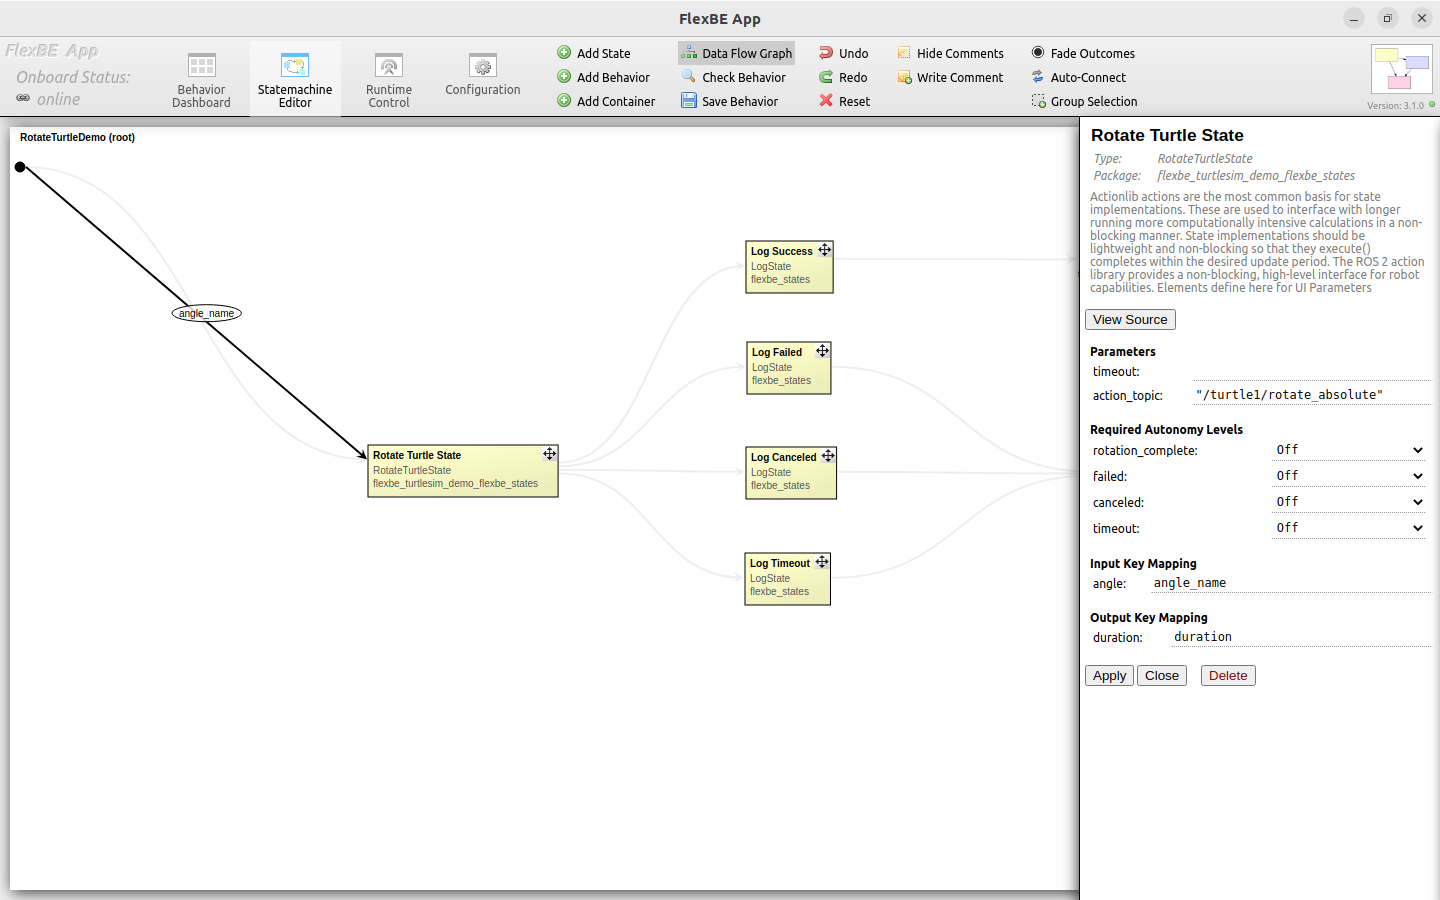
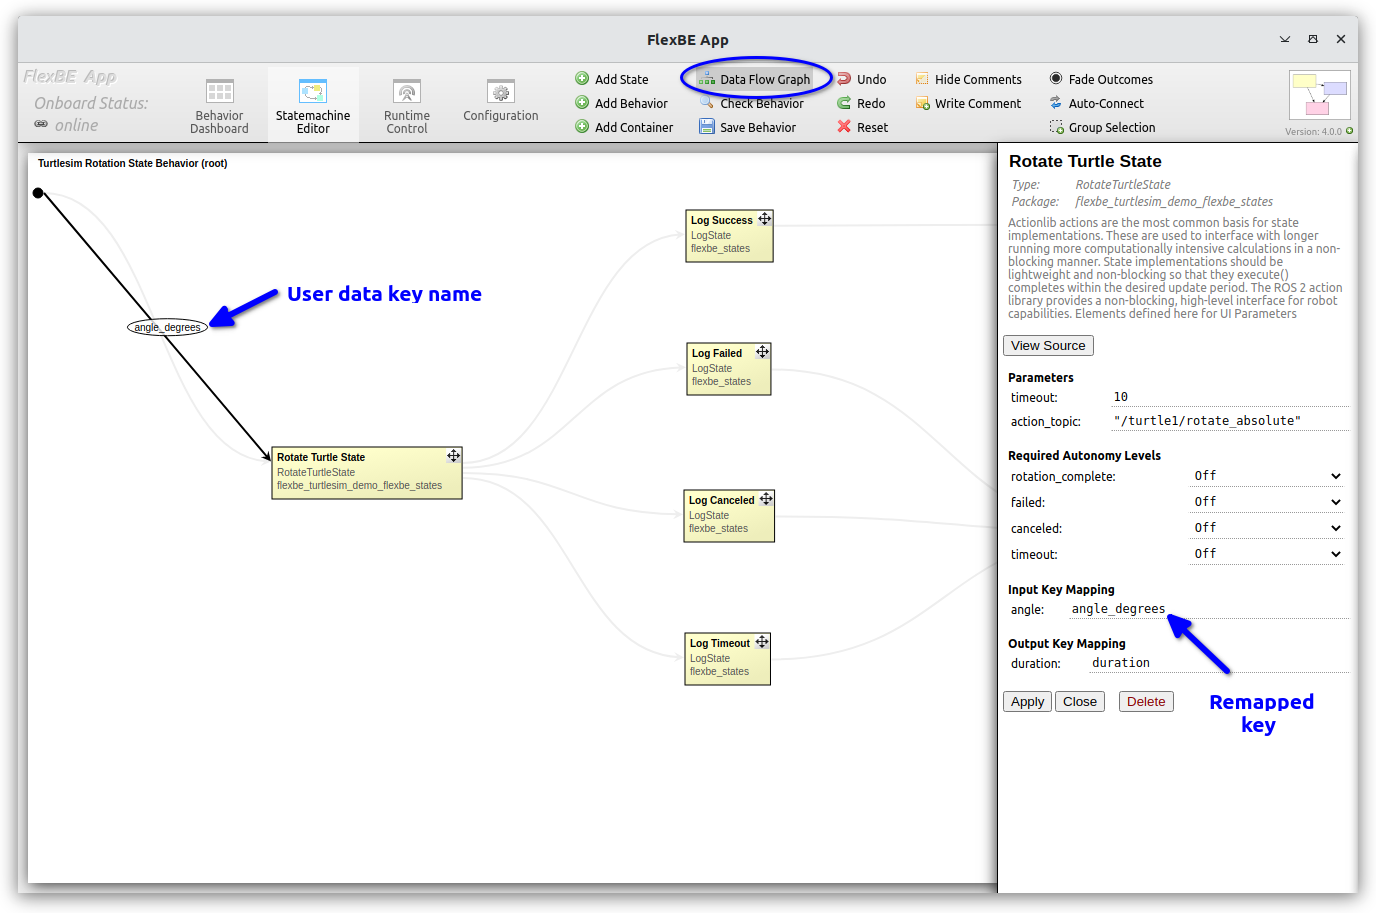
working on rotate draft with images

diff --git a/docs/rotate_behavior.md b/docs/rotate_behavior.md
@@ -1,22 +1,29 @@
 
 # RotateTurtleState and Userdata
 
-A key part of FlexBE that extends the concept beyond pure state machines is `userdata` that can be passed from one state to another.
+Two key parts of FlexBE that extends the concept beyond pure state machines are:
+* 1) composition of behaviors into HFSM
+* 2) `userdata` that can be passed from one state to another.
 
-For example, the [Rotate Turtle State](flexbe_turtlesim_demo_flexbe_states/flexbe_turtlesim_demo_flexbe_states/rotate_turtle_state.py) uses
+For example, the [`RotateTurtleState`](flexbe_turtlesim_demo_flexbe_states/flexbe_turtlesim_demo_flexbe_states/rotate_turtle_state.py) uses
 `userdata` to define the desired angle.
 
-We will be our discussion with a simpler example, and then return to the specifics of the "Rotate" transition in `FlexBE Turtlesim Demonstration`.
+We will begin our discussion with a simpler example behavior and then return to the specifics of the "Rotate" transition in `FlexBE Turtlesim Demonstration`.
 
 ----
 
-### `Rotate Turtlesim Demonstration (TODO)`
+### `Turtlesim Rotation State Behavior`
 
-Separate from the `FlexBE Turtlesim Demonstration (TODO)` behavior, we have provided a simpler `Rotate Turtlesim Demonstration (TODO)` behavior.
-We will start by describing that first.
+Separate from the `Turtlesim Input State Behavior` sub-behavior used by the `FlexBE Turtlesim Demo`, 
+we have provided a simpler `Turtlesim Rotation State Behavior` behavior.
 
-Each state can accept data according to specified `Input Keys`.
-These key names can be remapped at the state level.
+We will start by describing that first, you may load this behavior and execute if you wish.
+
+Each FlexBE state can accept data according to specified `Input Keys`.
+These key names can be remapped to a different name at the state level.
+
+For example, the `RotateTurtleState` implementation specifies an input key called `angle` and 
+an output key `duration that is passed to downstream states.
 
 ```Python
 class RotateTurtleState(EventState):
@@ -44,34 +51,37 @@ class RotateTurtleState(EventState):
                          input_keys=['angle'],
                          output_keys=['duration'])
 
+        self._timeout = Duration(seconds=timeout)
+        self._timeout_sec = timeout
+        self._topic = action_topic
+
 ```
-The `RotateTurtleState` implementation specifies an input key called `angle` and an output key `duration`.  Internally, the state implementation will use `userdata.angle` to access the stored data
+
+Internally, the state implementation will use `userdata.angle` to access the stored data
 using the FlexBE core [`userdata.py` class](https://github.com/flexbe/flexbe_behavior_engine/flexbe_core/flexbe_core/userdata.py) that
 extends the capabilities of the basic `dict` object.
 
-<img src="img/key_remap_edit.png" alt="Remapping keys." width="300">
-<img src="img/data_flow_graph.png" alt="Data flowing into Rotation State." width="300">
-<img src="img/sm_userdata_dashboard.png" alt="Defining user data at the state machine level." width="300">
+In the `Turtlesim Rotation State Behavior` behavior, we define
+the `userdata` at the FlexBE UI Dashboard as `angle_degrees`, the desired
+angle in degrees.  In the `RotateTurtleState` editor, we specify that the required `angle` key 
+uses the remapped `angle_degrees` key value as shown below.
 
-The `Data Flow` view allows the behavior designer to view how userdata
-is passed through the state machine.  Once defined, a `userdata` value
-persists for the life of the state machine, but is only accessible
-within states that access that mapped key.
+<img src="img/rotate_state_userdata.png" alt="State machine level userdata." width="450">
+<img src="img/data_flow_graph.png" alt="Data flow view in Editor." width="450">
 
-In the `Rotate Turtlesim Demonstration (TODO)` behavior, we define
-the `userdata` at the FlexBE UI Dashboard.  In this case, the desired
-angle in degrees.
+The right image also shows the `Data Flow` view allows the behavior designer to view how `userdata`
+is passed through the state machine.  Once defined, a `userdata` key/value pair
+persists for the life of the state machine.
 
 Now when the state is executed the turtle will rotate to the key value that was defined after converting to `radians` as required by the
 `RotateAbsolute` action provided by `Turtlesim`.
 
 > Note: Normally, we suggest you stick to a consistent convention
-> for passing data, and ROS uses `radians` by convention.  
-> Here, we chose `degrees` here to illustrate data conversions
-> and for operator convenience at the UI.
+> for passing data, and ROS uses `radians` for angles by convention.  
+> Here, we chose `degrees` to illustrate data conversions and for operator convenience at the UI.
 
-The `userdata` is passed to the standard `on_enter`, `execute`, and `on_exit` methods of each FlexBE state.  Here we validate the data and
-use to create a `Goal` request for the `RotateAbsolute` action.
+The `userdata` is passed to the standard `on_enter`, `execute`, and `on_exit` methods of each FlexBE state.
+Here we validate the data and use to create a `Goal` request for the `RotateAbsolute` action.
 
 ```python
 def on_enter(self, userdata):
@@ -93,7 +103,7 @@ def on_enter(self, userdata):
 
     # Send the goal.
     try:
-        self._client.send_goal(self._topic, goal)
+            self._client.send_goal(self._topic, goal, wait_duration=self._timeout_sec)
     except Exception as e:
         # Since a state failure not necessarily causes a behavior failure,
         # it is recommended to only print warnings, not errors.
@@ -150,17 +160,28 @@ Additionally, FlexBE provides a simple action server with PyQt based UI window a
 `ros2 run flexbe_input input_action_server`
 
 When the FlexBE onboard `InputState` requests data of a given type, the
-UI window will open, prompt the user with the provided text, and wait for user input.  After the user presses `Enter/Return` or clicks the `Submit` button, the data is serialized and sent back to the `InputState` as a string of bytes data as part of the action result.
+UI window will open, prompt the user with the provided text, and wait for user input.
+After the user presses `Enter/Return` or clicks the `Submit` button, the data is serialized and 
+sent back to the `InputState` as a string of bytes data as part of the action result.
 
-In the `FlexBE TurtleSim Demonstration (TODO)` statemachine,
+> Note: The `InputState` makes use of the `pickle` module, and is subject to this warning from the Pickle manual:
+
+>   Warning The pickle module is not secure against erroneous or maliciously constructed data. 
+>   Never unpickle data received from an untrusted or unauthenticated source.
+
+In the `FlexBE Turtlesim Demo` statemachine,
  the container labeled `Rotate` is itself a simple state machine;
  that is, we have a Hierarchical Finite State Machine (HFSM).
+ Furthermore, it is not just a state machine, but is in fact as separate behavior `Turtlesim Input State Behavior`.
+ This behavior can be loaded and executed independent of `FlexBE Turtlesim Demo` behavior.
 
- <img src="img/rotate_sm_view.png" alt="Rotate sub-state machine." width="350">
+<img src="img/rotate_sm_view.png" alt="Rotate sub-state machine." width="350">
 <img src="img/input_state_config.png" alt="Configuration of input state." width="350">
 <img src="img/input_ui.png" alt="Configuration of input state." width="350">
 
-In the `InputState` configuration, we specify result type 1 (`BehaviorInput.Goal.RESULT_FLOAT`) to request a single number from the user (Note, we accept integer values without decimals as well.)
+In the `InputState` configuration, we specify result type 1 ([`BehaviorInput.Goal.RESULT_FLOAT`](https://github.com/FlexBE/flexbe_behavior_engine/blob/ros2-devel/flexbe_msgs/action/BehaviorInput.action)) to request a single number from the user. 
+
+> Note, for float types, we accept integer values without decimals as well.
 
 <img src="img/input_state_demo.png" alt="Using input state to provide data to turtle rotation state." width="350">
 

diff --git a/README.md b/README.md
@@ -185,7 +185,7 @@ FlexBE supports Hierarchical Finite State Machines (HFSM) so that the "EightMove
 The `flexbe_turtlesim_demo_flexbe_states` package in this repository includes custom Python-based state implementations for:
 
   * [`clear_turtlesim_state`](flexbe_turtlesim_demo_flexbe_states/flexbe_turtlesim_demo_flexbe_states/clear_turtlesim_state.py) - clear the turtlesim window using a *blocking* service call
-  * [`rotate_turtle_state`](flexbe_turtlesim_demo_flexbe_states/flexbe_turtlesim_demo_flexbe_states/rotate_turtle_state.py) - Rotate turtle to user input angle
+  * [`rotate_turtle_state`](flexbe_turtlesim_demo_flexbe_states/flexbe_turtlesim_demo_flexbe_states/rotate_turtle_state.py) - Rotate turtle to user input angle using an `action` interface
   * [`teleport_absolute_state`](flexbe_turtlesim_demo_flexbe_states/flexbe_turtlesim_demo_flexbe_states/teleport_absolute_state.py) - go to designated position using a *non-blocking* service call
   * [`timed_cmd_vel_state`](flexbe_turtlesim_demo_flexbe_states/flexbe_turtlesim_demo_flexbe_states/timed_cmd_vel_state.py) - publish command velocity using a specified desired update rate
 
